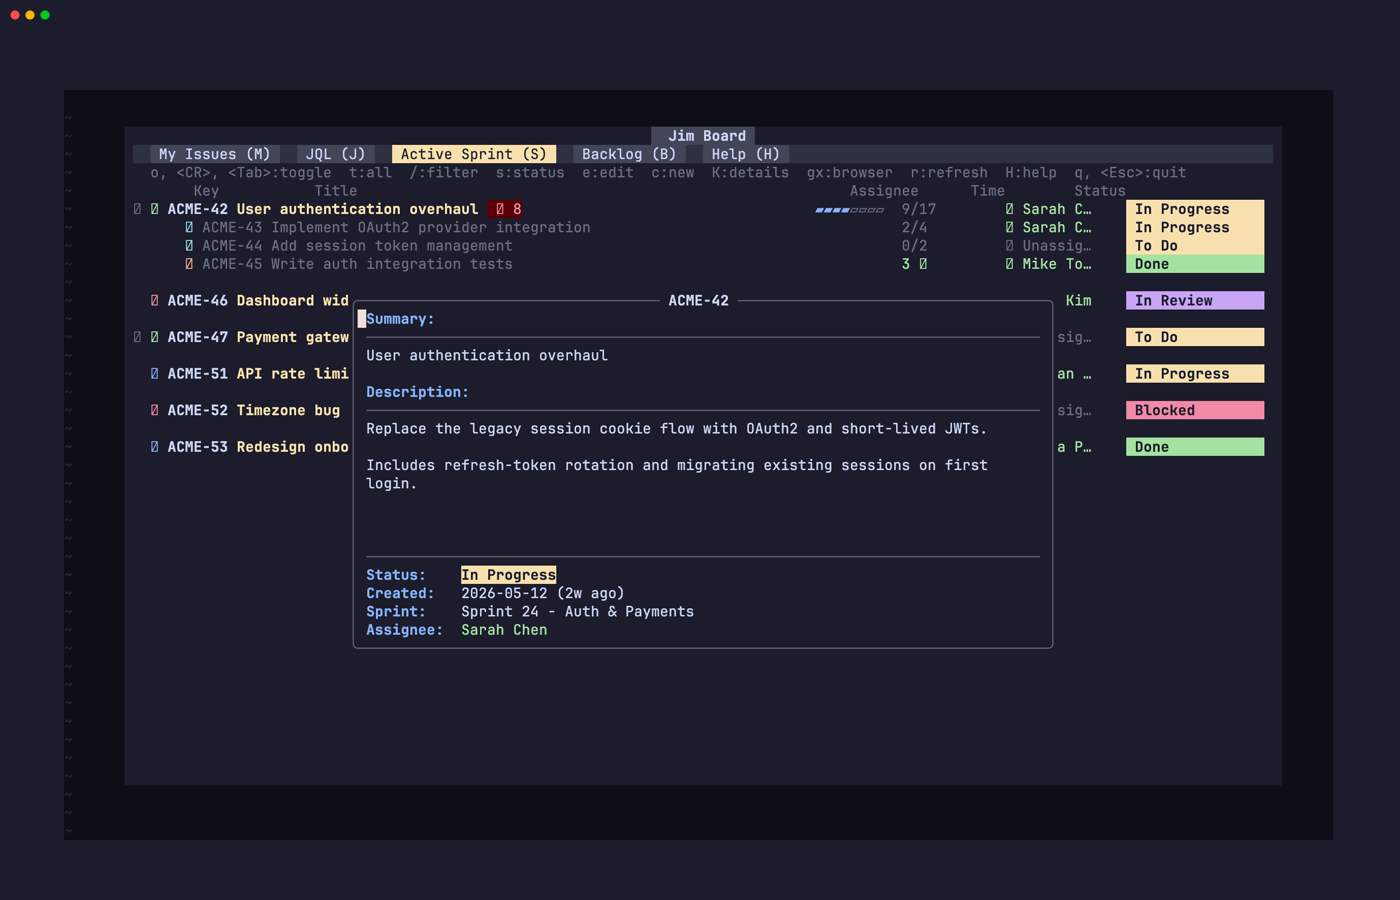
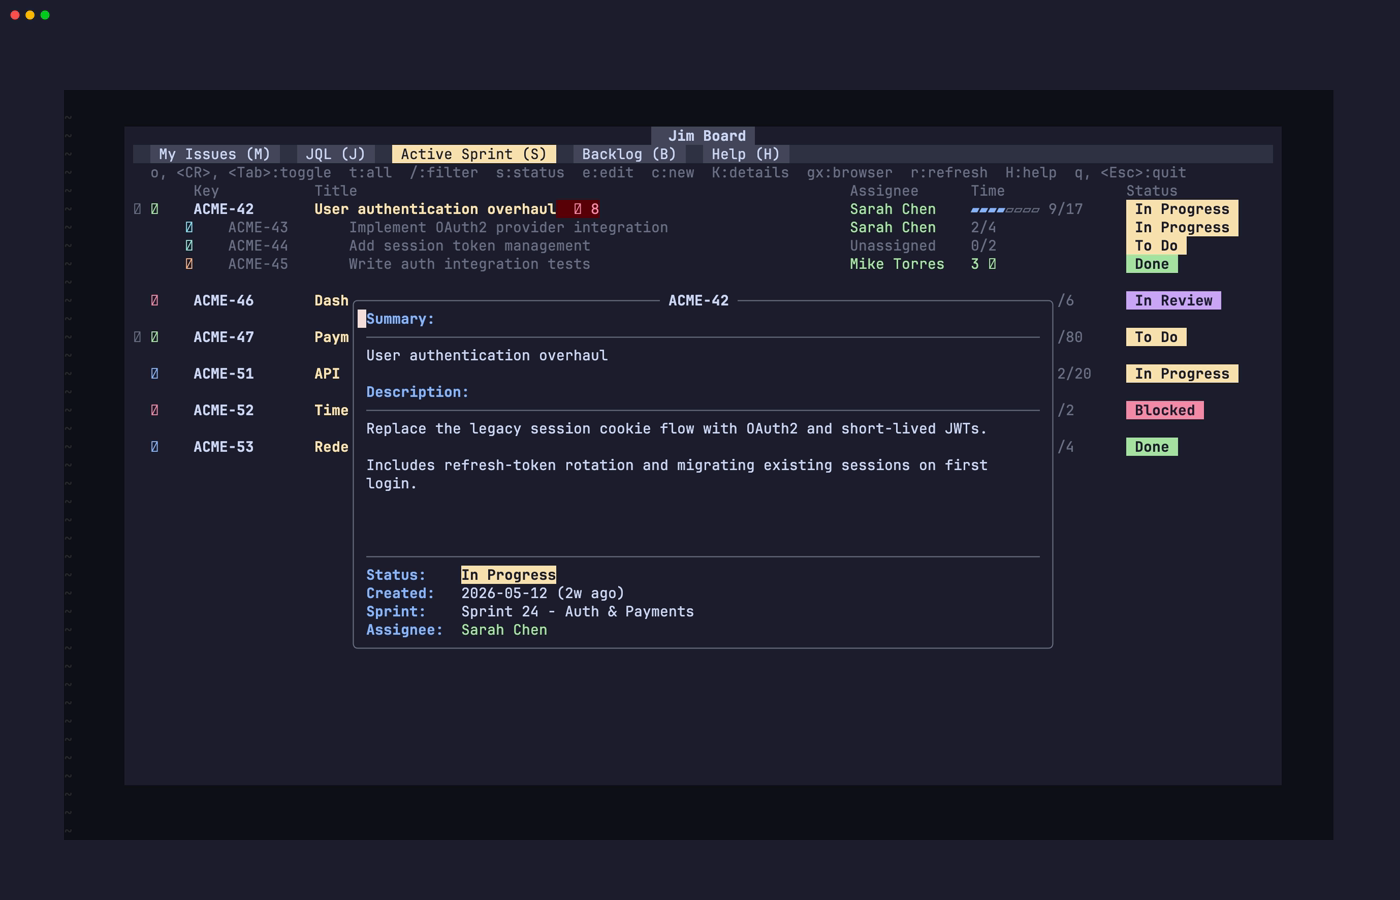
fix: render issue rows from column config
body was hard-coded + right-aligned while the header was config-driven,
so they never lined up and priority/points/type/reporter rendered nothing.
render_issue_line now iterates config.options.columns left-aligned in the
same order/width as the header. bar folds into the time cell, points badge
stays on summary when no points column. default time width 10->16.

diff --git a/README.md b/README.md
@@ -127,7 +127,7 @@ require("jim").setup({
     { field = "key", header = "Key", width = 12 },
     { field = "summary", header = "Title", width = 60 },
     { field = "assignee", header = "Assignee", width = 12 },
-    { field = "time", header = "Time", width = 10 },
+    { field = "time", header = "Time", width = 16 },
     { field = "status", header = "Status", width = 14 },
   },
 })
@@ -308,7 +308,9 @@ Sorting applies to root-level issues only. Children stay grouped under their par
 
 Press `gc` to add or remove columns from the issue list at runtime. The picker shows available fields (Key, Title, Assignee, Time, Status, Priority, Reporter, Points, Type) with `[x]`/`[ ]` markers. Toggle fields on/off, then press `Esc` to apply.
 
-Column widths and defaults can also be set in `setup()` via the `columns` config. The column header row at the top of the issue list reflects the active configuration.
+Column widths and defaults can also be set in `setup()` via the `columns` config. Both the header row and the issue rows below it render from the active column set, in the order you configure -- so adding `priority` or `story_points` shows those values inline (priority is color-coded by level).
+
+![Configurable columns](screenshots/columns.png)
 
 ### Assigning Issues
 
